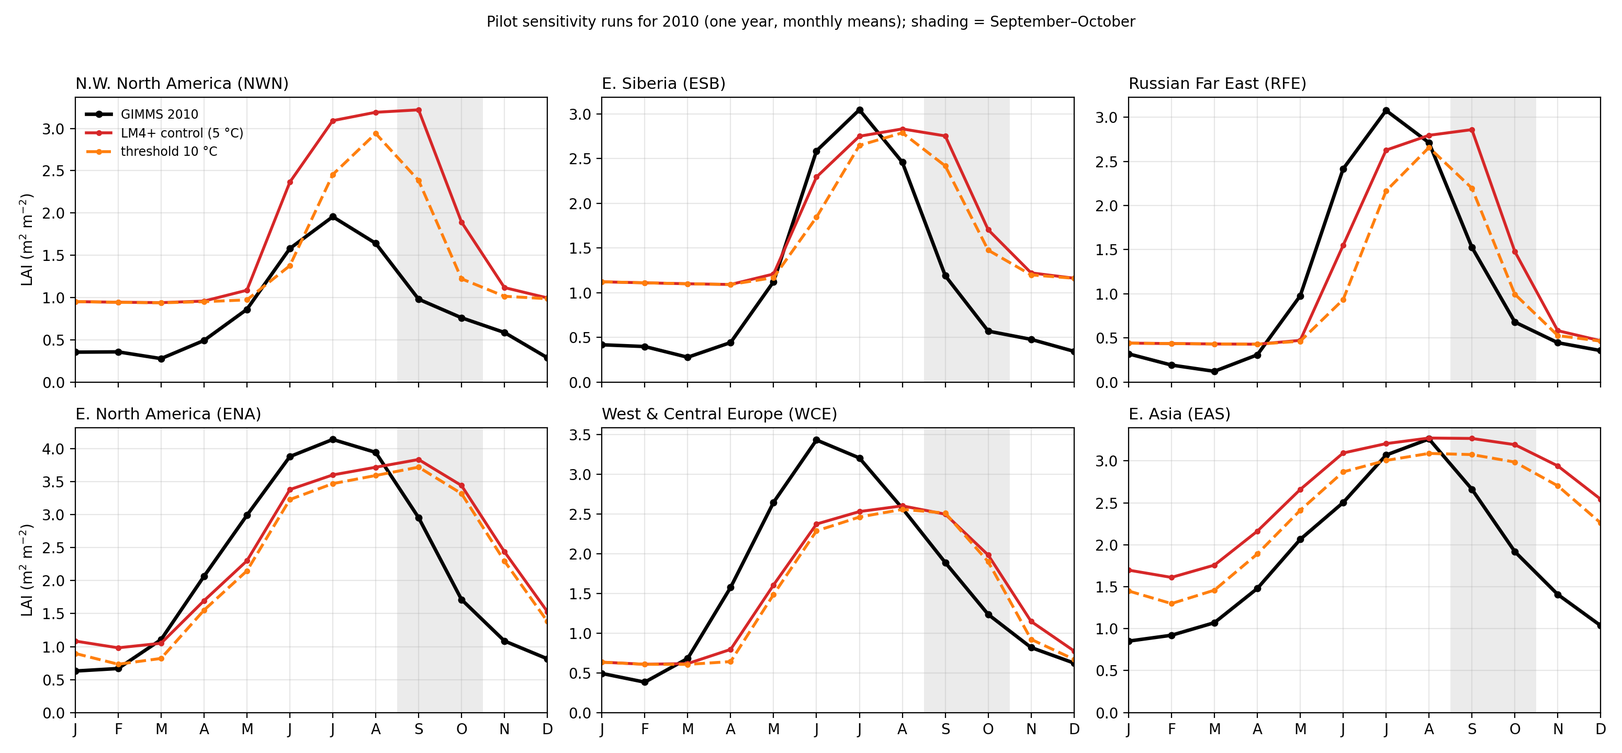
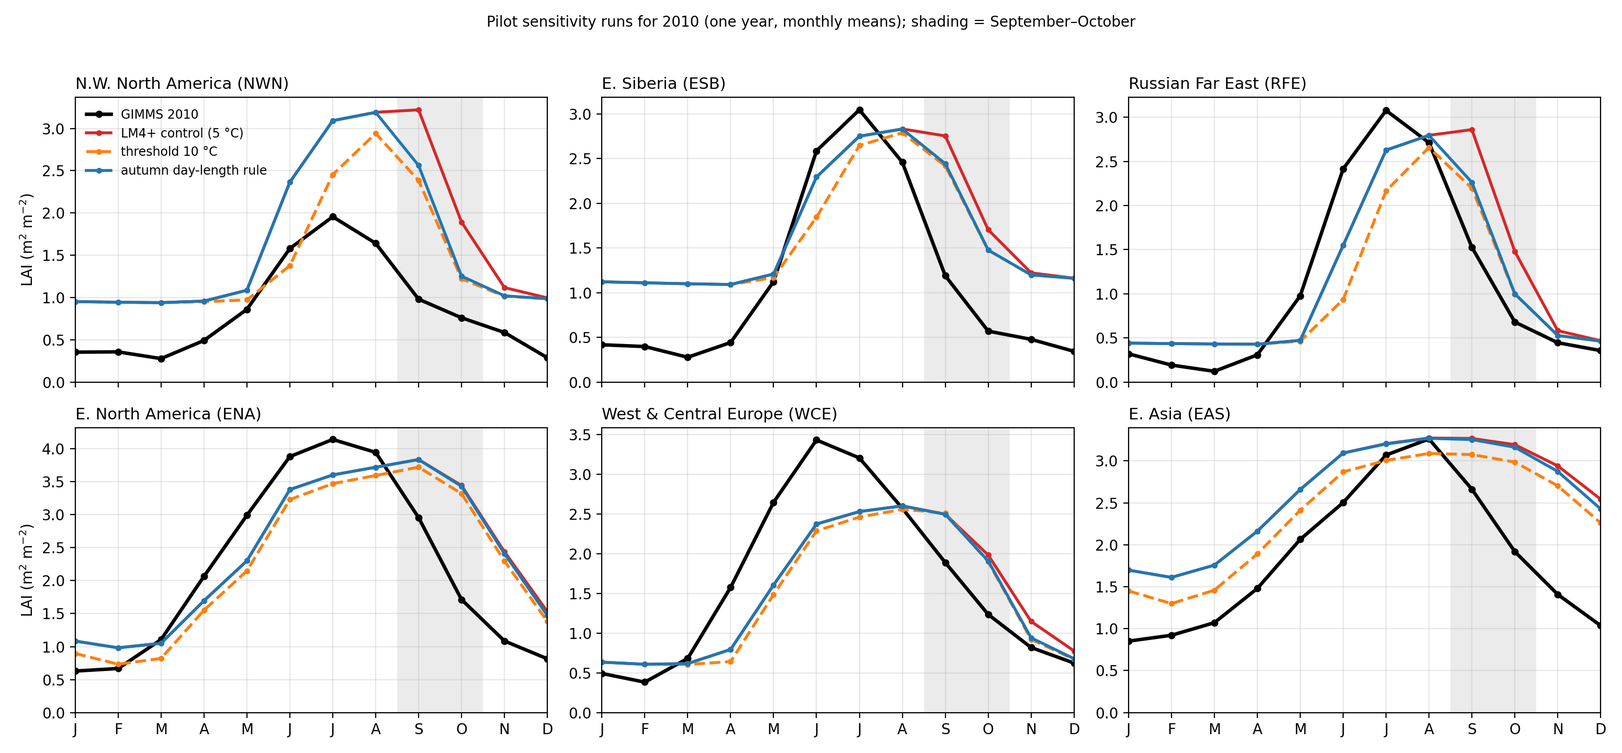
Add offon pilot result, species distribution check and independent code review
- offon (autumn day-length + 10 C rule for c3grass): Sep-Oct boreal LAI gap
  closed 20-50 %, spring unchanged, temperate unchanged; daily LAI shows no
  autumn re-leafing in the 50-70N mean; Fig. 3 updated
- species census: larix is essentially absent (20 cells, 0.15 % of cohorts
  since the initial state); boreal leaf area is picea/c3grass/acer; CLM5
  surface-dataset PFT shares and MODIS IGBP shares by AR6 region for contrast
  (both grid-verified), cropland shares for the temperate caveat
- codex CLI read-only review of the phenology code and patch recorded in notes
- flux response of tc10 (ET -4.5 %, runoff +4.7 % in boreal autumn)
- phentest.sh: refuse to re-stage a finished run unless FORCE=1
- experiment register (notes 13.70) with archive checksums

diff --git a/poster/2026_LM4p_LAI/LM4plus_phenology_explained.html b/poster/2026_LM4p_LAI/LM4plus_phenology_explained.html
@@ -131,9 +131,20 @@ end select</code></pre>
   <p>핵심은 <b>같은 <code>tc_crit</code>이 양쪽에 다 나온다</b>는 점입니다. 봄에 잎을 켜는 문턱과 가을에 잎을 끄는 문턱이 하나의 숫자입니다.</p>
   <div class="scroll"><table>
     <tr><th>파라미터</th><th>코드 기본값</th><th>우리 실험 설정</th></tr>
-    <tr><td><code>tc_crit</code></td><td class="n">283.16 K (10 °C)</td><td>낙엽송(larix)과 C3 풀은 <span class="n">278.15 K (5 °C)</span>로 낮춰져 있음. 단풍나무류(acer)는 기본값 10 °C.</td></tr>
-    <tr><td><code>gdd_crit</code></td><td class="n">360</td><td>종별 값은 이 글에서 확인하지 않았습니다.</td></tr>
+    <tr><td><code>tc_crit</code></td><td class="n">283.16 K (10 °C)</td><td>낙엽송(larix)과 C3 풀만 <span class="n">278.15 K (5 °C)</span>로 낮춰져 있음. 나머지는 기본값 10 °C.</td></tr>
+    <tr><td><code>gdd_crit</code></td><td class="n">360</td><td>낙엽송과 C3 풀만 <span class="n">180</span>. 나머지는 기본값 360.</td></tr>
   </table></div>
+  <p>기본값은 "따로 값을 주지 않은 종"에 적용됩니다. 우리 실험의 여섯 종은 이렇게 나뉩니다.</p>
+  <div class="scroll"><table>
+    <tr><th>종</th><th>유형</th><th class="n">tc_crit</th><th class="n">gdd_crit</th></tr>
+    <tr><td>larix (낙엽송)</td><td>낙엽</td><td class="n">5 °C</td><td class="n">180</td></tr>
+    <tr><td>c3grass (C3 풀)</td><td>낙엽</td><td class="n">5 °C</td><td class="n">180</td></tr>
+    <tr><td>acer (단풍나무류)</td><td>낙엽</td><td class="n">10 °C (기본값)</td><td class="n">360 (기본값)</td></tr>
+    <tr><td>c4grass (C4 풀)</td><td>낙엽</td><td class="n">10 °C (기본값)</td><td class="n">360 (기본값)</td></tr>
+    <tr><td>prioria (열대 활엽수)</td><td>낙엽</td><td class="n">10 °C (기본값)</td><td class="n">360 (기본값)</td></tr>
+    <tr><td>picea (가문비나무류)</td><td>상록</td><td class="n" colspan="2">규칙을 적용받지 않음</td></tr>
+  </table></div>
+  <p class="note">낙엽송(larix)은 설정에는 있지만 모델 안에 거의 살지 않습니다. 잎이 있는 격자가 전 지구 약 18,700개 중 20개뿐입니다. 그래서 문턱 5 °C의 효과는 사실상 C3 풀을 통해 나타납니다. 모델의 한대 식생은 가문비나무(상록) 34 %, C3 풀 48 %, 단풍나무류 18 %로 이루어져 있습니다(50–70°N, 2010년 7월 잎 면적 기준).</p>
   <p class="src">vegn_data.F90:261–263. 기본값 옆 주석은 "critical temperature for leaf drop". 종별 값은 실행 폴더의 field_table에서 덮어씁니다.</p>
 
   <h3>4단계. 꺼진 뒤 잎을 날마다 7.5 % 줄인다</h3>
@@ -147,7 +158,7 @@ if (cc%status==LEAF_OFF .AND. cc%bl>0 ...) then
 
 <section>
   <h2>그래서 가을에 생기는 일</h2>
-  <p>이 규칙을 동시베리아(낙엽송 지대, 평균 위도 54°N)에 적용해 보겠습니다. 모델 자신의 지역 평균 기온(1982–2010 기후값)을 넣고 위 1·3·4단계를 손으로 따라간 결과입니다.</p>
+  <p>이 규칙을 동시베리아(평균 위도 54°N)에 적용해 보겠습니다. 모델 자신의 지역 평균 기온(1982–2010 기후값)을 넣고 위 1·3·4단계를 손으로 따라간 결과입니다.</p>
 
   <figure>
     <div class="scroll">
@@ -201,7 +212,7 @@ if (cc%status==LEAF_OFF .AND. cc%bl>0 ...) then
   </table></div>
   <p class="src">관측 = GIMMS LAI4g, 모델 = LM4+ ctl, 1982–2010 평균. 기온은 모델의 2 m 기온 기후값(월평균을 일별로 보간). 표: data/phenology_rule_walkthrough.txt, data/lai_regional_sos_eos.txt</p>
   <ul>
-    <li><b>한대 세 지역(위 세 줄)</b>은 손으로 따라간 날짜(10/1–10/10)와 모델 EOS(10/11–10/12)가 잘 맞습니다. 낙엽송과 C3 풀이 많고, 둘 다 문턱이 5 °C이기 때문입니다.</li>
+    <li><b>한대 세 지역(위 세 줄)</b>은 손으로 따라간 날짜(10/1–10/10)와 모델 EOS(10/11–10/12)가 잘 맞습니다. 이 지역 여름 잎 면적의 38–59 %가 C3 풀이고, C3 풀의 문턱이 5 °C이기 때문입니다.</li>
     <li><b>온대 세 지역(아래 세 줄)</b>은 관측에서 잎이 줄 때 기온이 14–16 °C입니다. 어떤 온도 문턱으로도 설명하기 어려운 시기입니다. 이 지역의 낙엽은 기온보다 낮의 길이에 더 좌우되는 것으로 알려져 있습니다.</li>
     <li><b>동아시아</b>는 가장 추운 달 평균이 1.3 °C라서, 남쪽에서는 평활 기온이 5 °C 아래로 내려가는 날이 거의 없습니다. 모델의 잎이 12월까지 남는 이유입니다.</li>
   </ul>

diff --git a/lm4/scripts/phentest_species_share.py b/lm4/scripts/phentest_species_share.py
@@ -1,0 +1,50 @@
+#!/usr/bin/env python3
+"""Where does each LM4+ species live?  Share of leaf area by species, July, by latitude band and region.
+
+Reads lai by species from land_month_by_species on the native C96 tiles (land_area weights
+from land_static when present).  Regions are simple lon-lat boxes that approximate the AR6
+regions used on the poster (exact polygons need regionmask, which the server lacks).
+usage: python phentest_species_share.py <run_dir> [month_index, default 6 = July]
+"""
+import glob
+import os
+import sys
+import numpy as np
+from netCDF4 import Dataset
+
+run = sys.argv[1]
+mon = int(sys.argv[2]) if len(sys.argv) > 2 else 6
+BOX = [("70-90N", 70, 90, -180, 180), ("50-70N", 50, 70, -180, 180), ("30-50N", 30, 50, -180, 180),
+       ("0-30N", 0, 30, -180, 180), ("60S-0", -60, 0, -180, 180),
+       ("NWN box 50-72N 168-105W", 50, 72, -168, -105), ("ESB 45-65N 90-130E", 45, 65, 90, 130),
+       ("RFE box 45-65N 130-180E", 45, 65, 130, 180), ("ENA box 25-50N 90-60W", 25, 50, -90, -60),
+       ("WCE box 45-61N 10W-40E", 45, 61, -10, 40), ("EAS box 20-45N 100-145E", 20, 45, 100, 145)]
+names = None
+acc = np.zeros((len(BOX), 16)); area = np.zeros(len(BOX))
+for f in sorted(glob.glob(run + "/*.land_month_by_species.tile*.nc")):
+    with Dataset(f) as A:
+        A.set_auto_mask(False)
+        if names is None:
+            names = [s.strip() for s in A.variables["species"].species_names.split(",")]
+        lai = A.variables["lai"][mon].astype("f8")            # (species, grid_index)
+        fill = getattr(A.variables["lai"], "_FillValue", -1.0)
+        lat = A.variables["geolat_t"][:].astype("f8").ravel(); lon = A.variables["geolon_t"][:].astype("f8").ravel()
+        lon = np.where(lon > 180, lon - 360, lon)
+        w = np.ones(lat.size)
+        fs = f.replace("land_month_by_species", "land_static")
+        if os.path.exists(fs):
+            with Dataset(fs) as S:
+                S.set_auto_mask(False)
+                for n in ("land_area", "area_land", "soil_area"):
+                    if n in S.variables:
+                        w = np.squeeze(S.variables[n][:]).astype("f8").ravel(); w = np.where(w > 0, w, 0.0); break
+        lai = np.where((lai == fill) | ~np.isfinite(lai), 0.0, lai)
+        for i, (_, a, b, x0, x1) in enumerate(BOX):
+            m = (lat >= a) & (lat < b) & (lon >= x0) & (lon < x1)
+            acc[i, :lai.shape[0]] += (lai[:, m] * w[m]).sum(1); area[i] += w[m].sum()
+ns = len(names)
+print("share of %s leaf area by species (%%), run %s; last column = mean total LAI" % (["Jan","Feb","Mar","Apr","May","Jun","Jul","Aug","Sep","Oct","Nov","Dec"][mon], os.path.basename(run)))
+print("%-26s " % "region" + " ".join("%8s" % n for n in names) + "   LAI")
+for i, (lab, *_r) in enumerate(BOX):
+    tot = acc[i, :ns].sum()
+    print("%-26s " % lab + " ".join("%8.1f" % (100 * acc[i, k] / tot if tot > 0 else 0) for k in range(ns)) + "  %5.2f" % (tot / area[i] if area[i] > 0 else 0))

diff --git a/lm4/scripts/phentest_daily_lai_band.py b/lm4/scripts/phentest_daily_lai_band.py
@@ -1,0 +1,49 @@
+#!/usr/bin/env python3
+"""Daily regional-mean LAI from land_daily on the native C96 tiles, to look for autumn re-leafing.
+
+Prints the daily mean LAI over a latitude band for a date window, the day-to-day changes, and
+flags days when the band mean rises again after the autumn decline has started.
+usage: python phentest_daily_lai_band.py <run_dir> [lat0 lat1] [doy0 doy1]
+"""
+import glob
+import os
+import sys
+import numpy as np
+from netCDF4 import Dataset
+
+run = sys.argv[1]
+lat0, lat1 = (float(sys.argv[2]), float(sys.argv[3])) if len(sys.argv) > 3 else (50.0, 70.0)
+d0, d1 = (int(sys.argv[4]), int(sys.argv[5])) if len(sys.argv) > 5 else (213, 334)   # Aug 1 .. Nov 30
+num = None; den = 0.0
+for f in sorted(glob.glob(run + "/*.land_daily.tile*.nc")):
+    with Dataset(f) as A:
+        A.set_auto_mask(False)
+        if "lai" not in A.variables:
+            sys.exit("no daily lai in " + f)
+        lat = A.variables["geolat_t"][:].astype("f8").ravel()
+        w = np.ones(lat.size)
+        fs = f.replace("land_daily", "land_static")
+        if os.path.exists(fs):
+            with Dataset(fs) as S:
+                S.set_auto_mask(False)
+                for n in ("land_area", "area_land", "soil_area"):
+                    if n in S.variables:
+                        w = np.squeeze(S.variables[n][:]).astype("f8").ravel(); w = np.where(w > 0, w, 0.0); break
+        m = (lat >= lat0) & (lat < lat1)
+        x = A.variables["lai"][:].astype("f8").reshape(A.variables["lai"].shape[0], -1)
+        x = np.where((x == getattr(A.variables["lai"], "_FillValue", -1.0)) | ~np.isfinite(x), 0.0, x)
+        s = (x[:, m] * w[m]).sum(1)
+        num = s if num is None else num + s; den += w[m].sum()
+lai = num / den
+doy = np.arange(1, lai.size + 1)
+sel = (doy >= d0) & (doy <= d1)
+print("band %g-%gN, run %s, daily band-mean LAI (land_area weights)" % (lat0, lat1, os.path.basename(run)))
+print("doy: " + " ".join("%3d" % k for k in doy[sel][::5]))
+print("lai: " + " ".join("%3.1f" % v for v in lai[sel][::5]))
+dl = np.diff(lai)
+peak = int(np.argmax(lai)) + 1
+rise = [(int(k) + 2, float(dl[k])) for k in range(lai.size - 1) if k + 2 > peak and dl[k] > 0.005]
+print("peak day %d (LAI %.2f); after the peak, days with a rise > 0.005/day: %d" % (peak, lai.max(), len(rise)))
+for k, v in rise[:12]:
+    print("   doy %3d  +%.3f" % (k, v))
+print("LAI at doy 244 (Sep 1) %.2f, 258 (Sep 15) %.2f, 274 (Oct 1) %.2f, 288 (Oct 15) %.2f, 305 (Nov 1) %.2f" % tuple(lai[k - 1] for k in (244, 258, 274, 288, 305)))

diff --git a/lm4/scripts/restart_species_census.py b/lm4/scripts/restart_species_census.py
@@ -1,0 +1,37 @@
+#!/usr/bin/env python3
+"""Census of vegetation cohorts by species in LM4+ restart files (vegn2.res.tile*.nc).
+
+For each directory given: number of cohorts per species, and each species' share of the total
+leaf biomass (bl x nindivs when nindivs is in the file, else bl alone).  Shows whether a species
+is missing from the initial state or disappears during the run.
+usage: python restart_species_census.py <dir_with_vegn2.res.tile*.nc> [<dir> ...]
+"""
+import glob
+import os
+import sys
+import numpy as np
+from netCDF4 import Dataset
+
+for d in sys.argv[1:]:
+    files = sorted(glob.glob(os.path.join(d, "vegn2.res.tile*.nc")))
+    if not files:
+        print("%s: no vegn2.res.tile*.nc" % d); continue
+    names = None; cnt = None; leaf = None
+    for f in files:
+        with Dataset(f) as A:
+            A.set_auto_mask(False)
+            if names is None:
+                raw = A.variables["species_names"][:]
+                names = ["".join(c.decode() if isinstance(c, bytes) else str(c) for c in row).strip("\x00 ").strip() for row in raw]
+                cnt = np.zeros(len(names), int); leaf = np.zeros(len(names))
+            sp = A.variables["species"][:]
+            bl = A.variables["bl"][:].astype("f8")
+            n = A.variables["nindivs"][:].astype("f8") if "nindivs" in A.variables else np.ones(bl.size)
+            ok = (sp >= 0) & (sp < len(names)) & np.isfinite(bl) & (np.abs(bl) < 1e30) & (np.abs(n) < 1e30)
+            for k in range(len(names)):
+                m = ok & (sp == k)
+                cnt[k] += m.sum(); leaf[k] += (bl[m] * n[m]).sum()
+    tot = leaf.sum()
+    print(d)
+    print("   " + "  ".join("%s: %d cohorts, %.1f %% of leaf biomass" % (names[k], cnt[k], 100 * leaf[k] / tot if tot > 0 else 0)
+                            for k in range(len(names)) if names[k]))

diff --git a/lm4/scripts/clm_surfdata_pft_extract.py b/lm4/scripts/clm_surfdata_pft_extract.py
@@ -1,0 +1,25 @@
+#!/usr/bin/env python3
+"""Extract the PFT fractions from a CLM5 surface dataset into a small file for local analysis.
+
+Writes pct_pft(natpft, lat, lon) = PCT_NAT_PFT * PCT_NATVEG / 100 (percent of the grid cell),
+pct_crop, landfrac, lat, lon (as stored: LATIXY/LONGXY), without touching the original.
+usage: python clm_surfdata_pft_extract.py <surfdata.nc> <out.nc>
+"""
+import sys
+import numpy as np
+from netCDF4 import Dataset
+
+with Dataset(sys.argv[1]) as A, Dataset(sys.argv[2], "w") as O:
+    A.set_auto_mask(False)
+    lat = A.variables["LATIXY"][:, 0]; lon = A.variables["LONGXY"][0, :]
+    nat = A.variables["PCT_NATVEG"][:]; pft = A.variables["PCT_NAT_PFT"][:]
+    O.createDimension("natpft", pft.shape[0]); O.createDimension("lat", lat.size); O.createDimension("lon", lon.size)
+    for n, v in (("lat", lat), ("lon", lon)):
+        O.createVariable(n, "f8", (n,))[:] = v
+    x = O.createVariable("pct_pft", "f4", ("natpft", "lat", "lon"), zlib=True)
+    x[:] = pft * nat[None] / 100.0
+    x.long_name = "PFT area as percent of grid cell (PCT_NAT_PFT x PCT_NATVEG / 100)"
+    O.createVariable("pct_crop", "f4", ("lat", "lon"), zlib=True)[:] = A.variables["PCT_CROP"][:]
+    O.createVariable("landfrac", "f4", ("lat", "lon"), zlib=True)[:] = A.variables["LANDFRAC_PFT"][:]
+    O.source = sys.argv[1]
+print("wrote", sys.argv[2])

diff --git a/lm4/scripts/phentest_species_presence.py b/lm4/scripts/phentest_species_presence.py
@@ -1,0 +1,23 @@
+#!/usr/bin/env python3
+"""Does each species have any leaves anywhere?  Max of lai and leaf biomass by species over
+the year and all cells, and the number of cells where the species is present.
+usage: python phentest_species_presence.py <run_dir>
+"""
+import glob
+import sys
+import numpy as np
+from netCDF4 import Dataset
+
+mx, cnt, names = {}, {}, None
+for f in sorted(glob.glob(sys.argv[1] + "/*.land_month_by_species.tile*.nc")):
+    with Dataset(f) as A:
+        A.set_auto_mask(False)
+        names = [s.strip() for s in A.variables["species"].species_names.split(",")]
+        for v in ("lai", "bl"):
+            x = A.variables[v][:].astype("f8")
+            x = np.where(x == getattr(A.variables[v], "_FillValue", -1.0), 0.0, x)
+            mx[v] = np.maximum(mx.get(v, 0), x.max(axis=(0, 2)))
+            cnt[v] = cnt.get(v, 0) + (x.max(axis=0) > 1e-6).sum(axis=1)
+print("species:", names)
+for v in mx:
+    print("%-3s max over the year and all cells:" % v, np.round(mx[v], 4), "| cells where present:", cnt[v])

diff --git a/lm4/LM4_SPINUP_NOTES.md b/lm4/LM4_SPINUP_NOTES.md
@@ -1703,6 +1703,50 @@ LM4p = `postproc/lm4p_ctl/yearly`(lm4p_to_latlon.py, nearest 1°)의 `lai`를 CD
 
 ### 13.70 ★★★ phenology 민감도 실험 대장 (2026-10-06 작성 — 실험을 추가·재실행할 때 이 표부터 갱신)
 
+종별 phenology 파라미터(ctl `field_table` 확인 2026-10-06; 코드 기본값 `tc_crit=283.16`, `gdd_crit=360`, 유형 기본 = deciduous): **larix** 5 °C·180 · **c3grass** 5 °C·180(deciduous 명시) · acer 기본값 10 °C·360 · c4grass 기본값 10 °C·360(deciduous 명시) · prioria(열대) 기본값 10 °C·360 · **picea** `phenology_type='evergreen'`(규칙 미적용). 즉 기본값을 덮어쓴 종은 larix·c3grass 둘뿐이고 둘 다 문턱과 GDD 기준을 함께 낮춤.
+
+**이 값들의 출처 (2026-10-06 서버 확인)**: ① ctl `field_table`은 KIOST 원본 `~/KIOST-ESM2/field_table`(2026-06-13)과 **6줄(3쌍)만 다름** — n2o·ch4·co2 `lower_bound`에서 `fixed_year=1850.`을 뺀 것뿐, 종 블록은 동일(larix·c3grass `gdd_crit=180`, `tc_crit=278.15`) → **phenology 파라미터는 KIOST에서 받은 그대로**. `~/ESM4p5_KIOSTv2b/ASCII_INPUT_{PROD,SMALL}/field_table`(2026-02-13)도 같은 두 값. (co2 `fixed_year` 줄은 §13.68 CO₂ 고정 문제와 관련 가능 — 별도 확인 거리.)
+② 옛 UFS LM4(`ufs-weather-model/LM4-driver/LM4/vegetation/`, 5종 c4grass·c3grass·tempdec·tropical·evergreen)의 **코드 기본값 배열** `tc_crit = 283.16, 278.16, 283.16, 283.16, 263.16` → **c3grass 5 °C는 GFDL 옛 코드부터 있던 값**(KIOST 조정 아님), lm4P에서 새로 생긴 larix가 같은 값을 받은 것으로 보임. 우리 UFS 실행 namelist는 `tc_crit(0:2) = 3*273.16`(c4grass·c3grass·tempdec을 0 °C로 덮어씀).
+③ UFS LM4의 낙엽 규칙은 LM3식: `vegn_phenology`에서 `tc_av < tc_crit` 또는 가뭄이면 LEAF_OFF, **잎을 한 번에** 떨굼(`leaf_litter=(1-l_fract)*bl`), GDD·tc_pheno 평활 없음. lm4P(PPA)는 일 단위 판정 + GDD + 지수이동평균 + 7.5 %/일 낙엽으로 바뀐 것.
+
+**★★★★ larix는 모델에 사실상 없다 — 종별 잎 면적 분포 (2026-10-06, base 2010, C96 원격자·land_area 가중; `lm4/scripts/phentest_species_share.py`·`phentest_species_presence.py` → `poster/.../data/species_leaf_area_share_july2010.txt`)**: 연중 잎이 한 번이라도 있는 격자 수 — prioria 4,183 · picea 5,864 · **larix 20** · acer 3,741 · c4grass 8,738 · **c3grass 16,649**(전체 육지 ≈18,700). 7월 잎 면적 몫(%):
+| 영역 | prioria | picea | larix | acer | c4grass | c3grass | 평균 LAI |
+|---|---|---|---|---|---|---|---|
+| 70–90N | 0 | 0 | 0 | 0 | 0 | **100** | 0.07 |
+| 50–70N | 0 | 34.2 | 0.0 | 17.7 | 0 | **48.1** | 2.69 |
+| 30–50N | 0 | 32.5 | 0.0 | 33.0 | 0.3 | 34.3 | 1.83 |
+| 0–30N | 50.9 | 1.5 | 0 | 4.7 | 5.9 | 37.0 | 2.45 |
+| 60S–0 | 59.2 | 3.0 | 0 | 0.9 | 2.6 | 34.3 | 3.25 |
+| NWN(박스) | 0 | 32.7 | 0 | 11.2 | 0 | 56.1 | 3.03 |
+| ESB | 0 | **41.8** | **0.0** | 20.7 | 0 | 37.5 | 2.75 |
+| RFE(박스) | 0 | 14.8 | 0 | 26.6 | 0 | 58.6 | 2.52 |
+| ENA(박스) | 0 | 5.1 | 0 | **72.3** | 0.3 | 22.3 | 3.40 |
+| WCE(박스) | 0 | 24.5 | 0 | 47.8 | 0 | 27.6 | 2.48 |
+| EAS(박스) | 12.7 | 21.9 | 0 | 40.0 | 0.7 | 24.8 | 2.76 |
+(NWN·RFE·ENA·WCE·EAS는 AR6 다각형을 근사한 경위도 박스.)
+→ ① tc10·offon의 파라미터는 larix·c3grass에 주지만 **효과는 전부 c3grass 경유**. "낙엽송 문턱"이라는 표현은 틀림 — "한대 C3 풀의 문턱"으로. ② 실제 낙엽송 지대인 동시베리아가 모델에서는 **상록 가문비 42 % + 단풍나무류 21 % + C3 풀 38 %** → 겨울 바닥값(모델 ≈1.1 vs 관측 ≈0.3)의 유력한 원인 후보 = 상록수가 있어서(가설; 관측의 눈 효과와 분리 필요). ③ 한대에 온대 낙엽수(acer, 문턱 10 °C)가 18–27 % 있음. ④ 온대(ENA 72 %·WCE 48 %·EAS 40 %가 acer)는 tc10·offon의 대상 종이 소수라 반응이 작았던 것 — 4번 실험에서는 acer에도 가을 파라미터를 줘야 함. 종 분포 자체(초기 분포·`do_biogeography=F`)의 검토가 별도 과제로 추가됨.
+
+**larix 부재의 출처 = 초기 상태 (2026-10-06, `lm4/scripts/restart_species_census.py`, `vegn2.res` cohort 수)**: spin-up 시작 IC(`lm4_spinup30/INPUT`, KIOST 결합 400년 IC) — prioria 196,909 · picea 282,873 · **larix 1,790(전체의 0.15 %)** · acer 252,182 · c4grass 143,741 · c3grass 297,129. ctl y1979 1,794 → y2009 1,825 → y2023 1,754 → **처음부터 거의 없었고 45년간 늘지도 줄지도 않음**(`do_biogeography=F`라 새 곳에 정착 불가). 종으로서 계산은 되지만 사는 곳이 20격자뿐. 왜 KIOST IC에 larix가 거의 없는지는 미확인(KIOST 문의 필요). 주의: restart는 1월 1일이라 북반구 낙엽종의 잎 생물량 몫은 과소 — 종 비교는 cohort 수나 7월 잎 면적(위 표)으로.
+
+**독립 검토 — codex CLI (2026-10-06, read-only, 원본·패치 소스 6개 파일만 제공; 프롬프트는 결론을 주지 않고 코드에서 답하게 함)**: 우리 진단과 일치 — 가을 지연 1순위 = `tc_pheno` 평활(평균 지연 ≈19일) + 온도 문턱까지 ON 유지, 겨울 잔존 1순위 = picea의 계절 낙엽 면제, 기본값이면 패치는 논리상 원본과 동일(비트 동일은 별개).
+  새로 지적된 것: ① **가을 재전엽 반복 위험(실행 중인 offon_d에 해당)** — 새 규칙으로 OFF된 뒤 tc_pheno가 5–10 °C인 동안 GDD가 다시 쌓여 180(c3grass의 `gdd_crit`)을 넘으면 ON, 다음 날 다시 OFF·GDD 리셋. ON 분기는 가을 조건을 보지 않음 → **v2 후보: 가을 조건이 참인 동안 OFF→ON 금지**. offon_d의 일별 LAI에서 가을 재상승 유무 확인할 것. ② **초본은 OFF 순간 급감** — `vegn_dynamics.F90:2154–2168`에서 키·DBH·수관면적을 묘목 크기로 되돌리고 그 `bl_max`를 넘는 잎을 즉시 제거 → c3grass(한대 잎 면적 48 %)는 "7.5 %/일·반감 9일"이 아님. ESB에서 스위치 OFF(10/10)와 모델 LAI EOS(10/11)가 하루 차이인 이유로 보임(앞서 "종·격자 혼합" 추정을 대체). ③ 성장 배분 조건의 기온은 `tc_dorm`(≈10일 평활) > `T_dorm`. ④ `gdd`·`status` 진단 출력은 첫 cohort만 → 종 대표로 쓰면 안 됨. ⑤ 일장식 분모 365 고정(윤년 ≈1일 오차), 극점 `tan` 취약. ⑥ 기존 `tc_crit`(10 °C)보다 낮은 `tc_crit_off`는 효과 없음 → acer에 283.15를 줘도 무의미, 4번 실험은 더 높은 값(또는 일장만) 필요.
+  codex가 "세 파일에서 확인 불가"라 한 일평균 정규화는 **확인 완료**: `land_model.F90:2832` `tc_daily = tc_daily/steps_per_day`, `:2881–2883`에서 일 누적·극값 리셋 → 문제 없음.
+
+**★★★ 종 분포를 관측 기반 자료와 대조 (2026-10-06)** — 격자 검증 2건 포함.
+① **MCD12C1 IGBP 격자 검증 통과**: `/Volumes/data02/MODIS/MCD12C1/mcd12c1_igbp_GLOBAL_2010_2020.nc`(GEE `MODIS/061/MCD12C1` Type 1 majority, 0.05°, 2010·2020; tif→nc 변환은 geotransform에서 좌표 계산). `igbp`(year,lat,lon)=(2,3600,7200) int16, 값 0–16, **lat 오름차순** −89.975→89.975, lon −179.976→179.976, 간격 0.0500002°. 좌표 없는 원본 배열 그림 = 정상 세계지도. 지점 점검 10곳 중 8곳 일치(사하라 Barren·아마존/콩고 EBF·그린란드 SnowIce·태평양 Water·미국 옥수수지대 Crop·티벳 Grass·호주 내륙 OpenShrub); 불일치 2곳(동시베리아 62N120E·캐나다 55N100W = WoodySavanna)은 격자 오류가 아니라 **IGBP가 성긴 한대림을 Woody savanna/Savanna로 분류**하기 때문(전구 DNF 0.2 %뿐). → **IGBP 다수 등급으로는 낙엽송/가문비 구분 불가**. 쓸모 있는 것은 농경지 비율(AR6 육지 면적 %, `poster/.../data/igbp_share_ar6_regions_2010.txt`): WCE **50.7** · EAS 25.9 · ENA 16.7 · NWN 4.7 · ESB 3.9 · RFE 2.5.
+② **CLM5 지면자료 PFT 비율**(잎 유형이 구분됨; `surfdata_0.9x1.25_hist_16pfts_Irrig_CMIP6_simyr2000_c190214.nc` → `lm4/scripts/clm_surfdata_pft_extract.py` → `poster/.../data/clm5_surfdata_pft_0.9x1.25_simyr2000.nc`; 점검: lat −90→90 오름차순, lon 0→358.75, 지점 우점 PFT 동시베리아 NDT boreal 79.8 %·아마존 BET tropical·사하라 bare·캐나다 NET boreal·미국 동부 BDT temperate). AR6 지역의 식생 면적 대비 %(`clm5_pft_share_ar6_regions.txt`) vs LM4+ 7월 잎 면적 몫(위 표):
+| 유형 (CLM5 / LM4+ 종) | NWN | ESB | RFE | ENA | WCE | EAS |
+|---|---|---|---|---|---|---|
+| 상록 침엽 / picea | 37.4 / 32.7 | 22.8 / **41.8** | 15.0 / 14.8 | 31.6 / 5.1 | 15.6 / 24.5 | 20.5 / 21.9 |
+| **낙엽 침엽(낙엽송) / larix** | 0.2 / 0 | **25.4 / 0.0** | **17.2 / 0** | 0 / 0 | 0 / 0 | 0 / 0 |
+| 낙엽 활엽 / acer | 2.1 / 11.2 | 4.6 / **20.7** | 5.2 / 26.6 | 24.5 / 72.3 | 12.2 / 47.8 | 15.9 / 40.0 |
+| 관목 / (없음) | 18.2 / – | 5.5 / – | **29.5** / – | 0.5 / – | 0 / – | 0.1 / – |
+| C3 풀 / c3grass | 37.1 / 56.1 | 36.8 / 37.5 | 31.5 / 58.6 | 16.3 / 22.3 | 32.5 / 27.6 | 22.5 / 24.8 |
+| C4 풀 / c4grass | 0 / 0 | 1.1 / 0 | 0.1 / 0 | 8.6 / 0.3 | 1.5 / 0 | 13.3 / 0.7 |
+| 작물 / (없음) | 5.0 / – | 3.8 / – | 1.5 / – | 17.3 / – | **38.1** / – | 22.0 / – |
+주의: CLM5 쪽은 **지면 면적 비율**, LM4+ 쪽은 **7월 잎 면적 비율**이라 같은 양이 아님(나무는 면적당 잎이 많아 잎 면적 몫이 더 큼) → 숫자를 그대로 빼지 말고 "있다/없다, 많다/적다"로만 읽을 것. LM4+의 NWN·RFE·ENA·WCE·EAS는 근사 박스.
+→ 분명한 것: (a) **동시베리아·러시아 극동의 낙엽송(식생 면적의 25 %·17 %)이 LM4+에는 없음**, 그 자리를 picea와 acer가 채움 → 겨울 잎 잔존의 원인 후보. (b) LM4+에는 관목·작물이 없음 — RFE 관목 30 %, WCE 작물 38 %·EAS 22 %·ENA 17 %(온대 관측 EOS에 수확이 섞임). (c) C3 풀 비율은 ESB에서 비슷(36.8 vs 37.5). CLM5 지면자료도 위성 기반 추정(2000년 기준)이지 실측은 아님.
+
 공통: 2010-01-01 03Z 시작(ctl `archive/y2009` restart), 2010년 WFDE5, 24PE @climate00(한 번에 1개), 실행 `lm4/scripts/phentest.sh`(서버 `/data2/ydkoh/lm4/RUN/phentest.sh`), 런 폴더 `/data2/ydkoh/lm4/RUN/phentest/<이름>/`. 파라미터는 larix·c3grass 두 종의 field_table 값. "기온" = `tc_pheno`(캐노피 공기온도의 지수이동평균, 시간상수 20일).
 
 | # | 이름 | 실행파일 | 켜는 조건 | 끄는 조건 | 기간 | 상태 |
@@ -1710,12 +1754,17 @@ LM4p = `postproc/lm4p_ctl/yearly`(lm4p_to_latlon.py, nearest 1°)의 `lai`를 CD
 | 1 | `base` | gateBC | 기온 ≥ 5 °C | 기온 < 5 °C | 1년 | 완료 10/04 (8.7 G, restart 119, 종료 2011-01-01) |
 | 2 | `tc10` | gateBC | 기온 ≥ 10 °C | 기온 < 10 °C (`tc_crit=283.15`) | 1년 | 완료 10/04 (8.7 G) |
 | – | `noparam` | phenoff | #1과 같음(새 파라미터 없음) | #1과 같음 | 31일 | 완료 10/06 (5.2 G) — 회귀 시험용, gateBC와 비트 동일 아님(§13.69) |
-| 3 | `offon_d` | phenoff | 기온 ≥ 5 °C | 기온 < 5 °C **또는** (하지 이후·일장 < 14 h·기온 < 10 °C) (`tc_crit_off=283.15`, `dayl_crit_off=14.0`) | 1년 | **실행 중** 10/06 15:33:41~ (≈18.5 h), 일별 LAI 포함 |
+| 3 | `offon_d` | phenoff | 기온 ≥ 5 °C | 기온 < 5 °C **또는** (하지 이후·일장 < 14 h·기온 < 10 °C) (`tc_crit_off=283.15`, `dayl_crit_off=14.0`) | 1년 | **완료** 10/06 15:33:41 → 10/07 08:02:30 (16.5 h, rc=0, restart 119, FATAL 4줄은 MOM 경고), 일별 LAI 포함, 로컬 사본 `cases/phentest_2010/offon_d` |
 | 4 | (미정) 일장만 | phenoff | 기온 ≥ 5 °C | 기온 < 5 °C **또는** (하지 이후·일장 < 문턱) — `tc_crit_off`를 330 K처럼 크게 주면 재빌드 없이 가능 | 1년 | 미실행. 종별 문턱 후보: 한대 종 ≈13.3 h, 온대 종 ≈11.5–12 h(§13.69 일장 표). c3grass는 전 지구 분포라 제외 권장 |
 | – | `noparam_d` | phenoff | #1과 같음 | #1과 같음 | 1년 | 15:35:58 중단(결과 없음). 일 단위 비교가 필요해지면 #3 종료 후 순차 실행 |
 | – | `offon` | phenoff | #3과 같음 | #3과 같음 | – | 13:47 시작 직후 중단된 빈 폴더(다른 세션), 결과 없음 |
 
+- **★★★ 실험 3(offon) 결과 (2026-10-07; 1° 변환 `lm4p_to_latlon.py`로 base를 재변환해 기존 파일과 차이 0 확인 → 같은 방법; `poster/.../data/offon.lai.2010-2010.1deg.nc`, `phentest_regions_summary.txt`, `figures/fig3_phentest_regions.png`)** — AR6 지역 9–10월 평균 LAI(관측 / base / tc10 / offon)와 base−관측 격차의 해소율:
+  NWN 0.87 / 2.56 / 1.80 / **1.91** (tc10 45 %, offon **38 %**) · ESB 0.88 / 2.23 / 1.95 / **1.96** (21 %, **20 %**) · RFE 1.10 / 2.17 / 1.60 / **1.63** (54 %, **50 %**) · ENA 2.33 / 3.64 / 3.52 / 3.63 (9 %, 0 %) · WCE 1.56 / 2.24 / 2.20 / 2.20 (5 %, 6 %) · EAS 2.29 / 3.23 / 3.03 / 3.21 (21 %, 2 %).
+  5–6월 평균: offon = base와 **동일**(NWN 1.73, ESB 1.75, RFE 1.01, ENA 2.84, WCE 1.99, EAS 2.88; tc10은 각각 1.17·1.51·0.70·2.69·1.89·2.64로 악화) → **설계 목표 달성: 가을만 당기고 봄은 그대로**. 1–8월은 base와 같고 9월부터 갈라짐(NWN 9월 3.22→2.56, 10월 1.89→1.25).
+  온대 0–6 %는 예상대로(대상 종이 c3grass뿐, acer 미적용). 일별 LAI(`phentest_daily_lai_band.py`): 50–70N 밴드 정점 doy 242(2.84) → 9/1 2.83 · 9/15 2.23 · 10/1 1.62 · 10/15 1.31 · 11/1 1.03, 정점 이후 **재상승 일수 0** → codex가 우려한 가을 재전엽 반복은 밴드 평균에서는 안 보임(격자 단위 미확인). 60–72N: 9/1 2.37 → 9/15 1.30 → 10/1 0.63.
+  손계산 예측과의 대조: 한대 "가까워짐·온대 그대로·봄 불변" 세 가지 모두 적중. 50 % 진폭 EOS(밴드, 일별): offon ≈ doy 266(9/23) vs base(월별 보간) ≈ 10/10 → **약 17일 당겨짐**, 관측(9/3–9/9)까지는 2–3주 남음.
 - 패치 `lm4/patches/lm4P.phenology_autumn_daylength.diff`(작업본 `lm4/patches/phenoff_work/`, `.orig` = 원본), 빌드 `lm4/scripts/phenoff_build.sh` → `/data2/ydkoh/lm4/build_phenoff/fms_esm4.5_phenoff.x`.
 - 판정(월평균, 사용자 결정): AR6 6개 지역의 9–10월 평균 LAI 격차 감소·5–6월 유지·12개월 오차 — `poster/2026_LM4p_LAI/scripts/p4_fig_phentest_regions.py`(1° 파일 `data/<이름>.lai.2010-2010.1deg.nc`가 있으면 자동 포함). 플럭스 반응 `lm4/scripts/phentest_flux_response.py`.
-- **보존**: 완료된 `base`·`tc10`·`noparam`을 로컬 `/Volumes/data02/LM4P/cases/phentest_2010/`로 복사(2026-10-06, INPUT·FORCING 링크와 exe 제외, history+RESTART 포함). `offon_d`도 끝나면 같은 곳으로. 서버 `/data2`는 98 %라 원본을 지우기 전 반드시 로컬 사본의 파일 수·체크섬 확인.
+- **보존**: 완료된 `base`·`tc10`·`noparam`을 로컬 `/Volumes/data02/LM4P/cases/phentest_2010/`로 복사(2026-10-06, INPUT·FORCING 링크와 exe 제외, history+RESTART 포함). **검증 완료**: 세 실험 모두 서버=로컬 — history 138·restart 119개, 바이트 base 9,290,940,033 · tc10 9,283,668,287 · noparam 5,479,864,689, md5(land_month.tile1 / RESTART 전체) base 8409508e6670 / 9caa985b5620 · tc10 5d6263a03a43 / 02bfbbf4c0bd · noparam 3d24a581e7e8 / afd8aabc0d31. `offon_d`도 2026-10-07 복사·검증 완료(history 138·restart 119, 9,315,952,732 B, md5 ce57de992a6c / 61c4e96459b8, 서버=로컬). 서버 `/data2`는 98 %라 원본을 지우기 전 반드시 로컬 사본의 파일 수·체크섬 확인.
 - **덮어쓰기 방지**: `phentest.sh setup`은 변형 폴더를 `rm -rf` 후 다시 만든다 → 종료 restart(`RESTART/coupler.res`)가 있는 폴더는 `FORCE=1` 없이는 거부하도록 가드 추가(로컬 수정 완료, **서버 반영은 offon_d 종료 후** — 실행 중인 bash 스크립트를 덮어쓰면 종료 단계가 깨질 수 있음).
